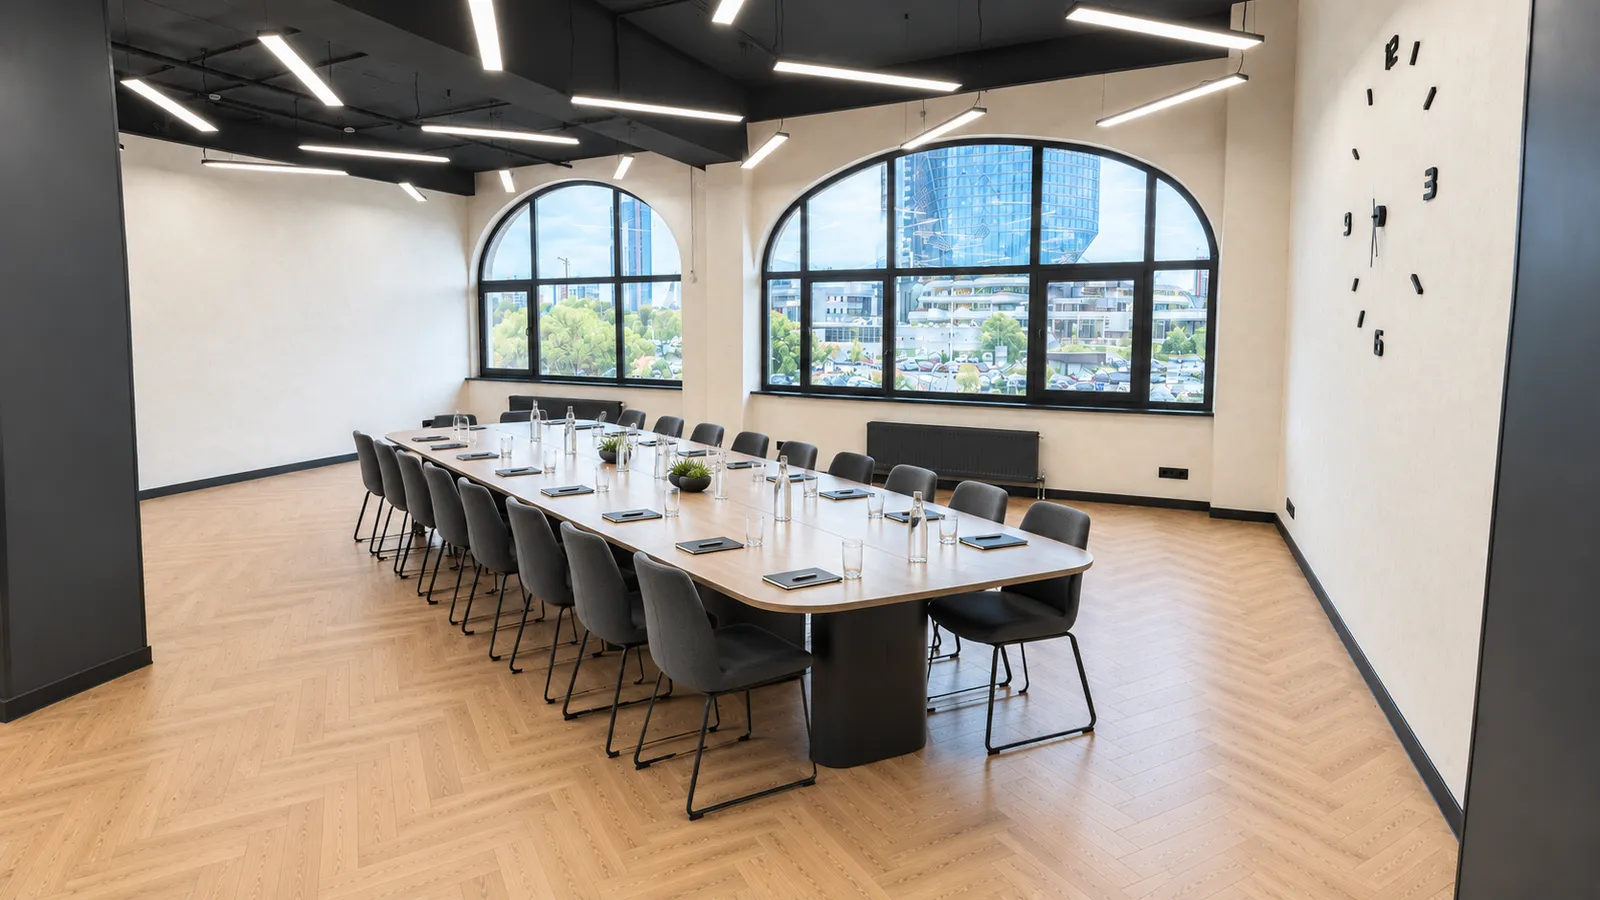
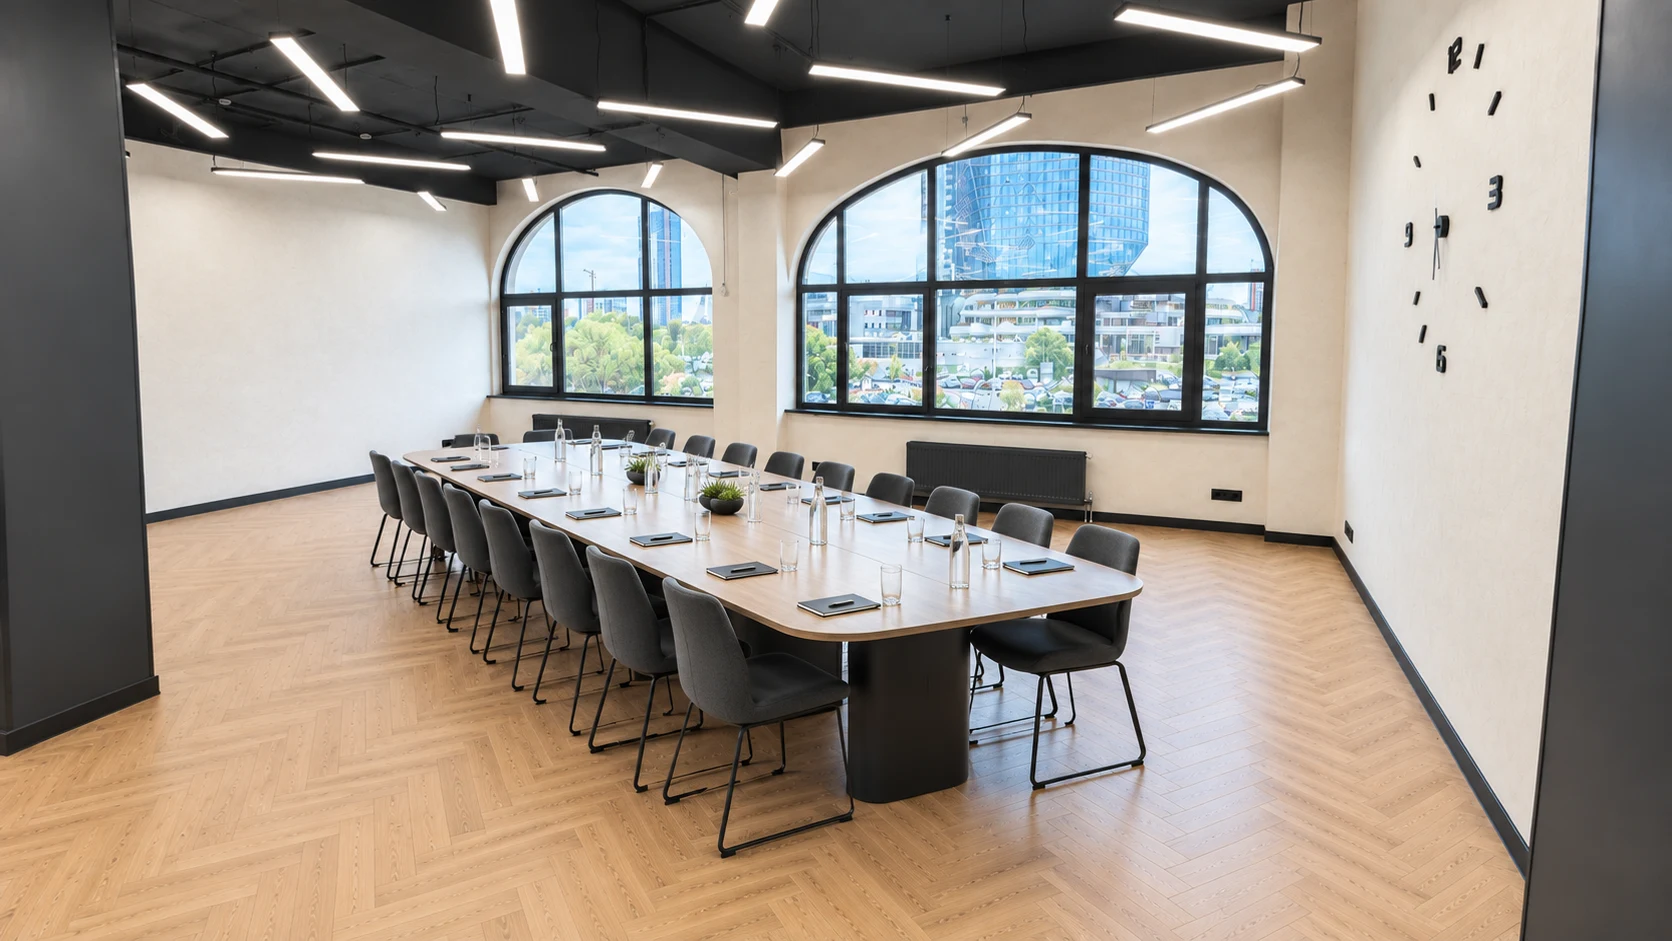
Тарифы: «1/2 дня», подсветка выбранной карточки; помещение: без 3D-наклона и полосы по краю, фото в родном качестве

diff --git a/src/sections.js b/src/sections.js
@@ -37,7 +37,7 @@ export function initHeader() {
   });
 }
 
-// Помещение: переключатель рассадки + объёмный наклон сцены за курсором и параллакс при прокрутке.
+// Помещение: переключатель рассадки, параллакс за курсором и появление при прокрутке.
 export function initSpace() {
   const root = document.querySelector('.space');
   const buttons = root.querySelectorAll('.layouts button');
@@ -49,31 +49,29 @@ export function initSpace() {
     }),
   );
 
+  // Лёгкий параллакс: картинка чуть увеличена и смещается за курсором внутри рамки,
+  // запаса по краям (scale 1.08) хватает, чтобы края не открывались.
   const stage = root.querySelector('.stage-inner');
   const imgs = stage.querySelectorAll('img');
+  gsap.set(imgs, { scale: 1.08 });
   if (matchMedia('(hover: hover)').matches) {
-    const rx = gsap.quickTo(stage, 'rotationX', { duration: 0.8, ease: 'power3.out' });
-    const ry = gsap.quickTo(stage, 'rotationY', { duration: 0.8, ease: 'power3.out' });
     const ix = gsap.quickTo(imgs, 'x', { duration: 0.8, ease: 'power3.out' });
     const iy = gsap.quickTo(imgs, 'y', { duration: 0.8, ease: 'power3.out' });
     stage.addEventListener('mousemove', (e) => {
       const r = stage.getBoundingClientRect();
-      const px = (e.clientX - r.left) / r.width - 0.5;
-      const py = (e.clientY - r.top) / r.height - 0.5;
-      ry(px * 8);
-      rx(-py * 6);
-      ix(-px * 24);
-      iy(-py * 16);
+      ix(-((e.clientX - r.left) / r.width - 0.5) * r.width * 0.05);
+      iy(-((e.clientY - r.top) / r.height - 0.5) * r.height * 0.05);
     });
     stage.addEventListener('mouseleave', () => {
-      rx(0); ry(0); ix(0); iy(0);
+      ix(0);
+      iy(0);
     });
   }
-  gsap.fromTo(stage, { rotationX: 14, scale: 0.92 }, {
-    rotationX: 0,
+  gsap.fromTo(stage, { scale: 0.92, opacity: 0.6 }, {
     scale: 1,
+    opacity: 1,
     ease: 'none',
-    scrollTrigger: { trigger: root.querySelector('.stage'), start: 'top bottom', end: 'top 30%', scrub: true },
+    scrollTrigger: { trigger: root.querySelector('.stage'), start: 'top bottom', end: 'top 40%', scrub: true },
   });
 }
 
@@ -106,4 +104,17 @@ export function initGallery() {
     ease: 'power3.out',
     scrollTrigger: { trigger: grid, start: 'top 85%', once: true },
   });
+}
+
+// Тарифы: выбранная карточка подсвечивается тёмно-синим. На компьютере подсветка следует за курсором
+// и возвращается к выбранной, когда курсор уходит; клик (или тап на телефоне) закрепляет выбор.
+export function initTariffs() {
+  const cards = [...document.querySelectorAll('.tariff')];
+  let selected = cards.find((c) => c.classList.contains('is-active'));
+  const activate = (card) => cards.forEach((c) => c.classList.toggle('is-active', c === card));
+  cards.forEach((card) => {
+    card.addEventListener('click', () => activate((selected = card)));
+    if (matchMedia('(hover: hover)').matches) card.addEventListener('mouseenter', () => activate(card));
+  });
+  document.querySelector('.tariff-grid').addEventListener('mouseleave', () => activate(selected));
 }

diff --git a/src/style.css b/src/style.css
@@ -146,13 +146,13 @@ img { display: block; max-width: 100%; }
 }
 .layouts button:hover { border-color: var(--navy); }
 .layouts button.is-active { background: var(--navy); color: #fff; border-color: var(--navy); }
-.stage { position: relative; perspective: 1400px; }
+.stage { position: relative; }
 .stage-inner {
   position: relative; aspect-ratio: 16 / 9; border-radius: 20px; overflow: hidden;
-  transform-style: preserve-3d; will-change: transform; box-shadow: 0 30px 80px -30px rgba(20, 30, 40, 0.45);
+  background: var(--navy); box-shadow: 0 30px 80px -30px rgba(20, 30, 40, 0.45);
 }
 .stage-inner img {
-  position: absolute; inset: -4%; width: 108%; height: 108%; object-fit: cover;
+  position: absolute; inset: 0; width: 100%; height: 100%; object-fit: cover;
   opacity: 0; transition: opacity 0.6s ease;
 }
 .stage-inner img.is-active { opacity: 1; }
@@ -175,15 +175,18 @@ img { display: block; max-width: 100%; }
 .tariff {
   position: relative; display: flex; flex-direction: column; gap: 18px;
   padding: 36px 28px 28px; border: 1px solid rgba(34, 50, 63, 0.15); border-radius: 160px 160px 16px 16px;
-  text-align: center;
+  text-align: center; cursor: pointer;
+  transition: background 0.35s, border-color 0.35s, transform 0.35s;
 }
+.tariff h3, .tariff .price, .tariff ul, .tariff .price small { transition: color 0.35s; }
 .tariff h3 { margin-top: 24px; font: 700 22px/1 var(--font-head); color: var(--navy); }
 .tariff .price { font: 800 48px/1 var(--font-head); color: var(--navy); }
 .tariff .price small { display: block; margin-top: 6px; font: 500 14px/1 var(--font-body); color: var(--muted); }
 .tariff ul { list-style: none; color: var(--muted); font-size: 15px; display: grid; gap: 8px; flex: 1; }
-.tariff-hit { background: var(--navy); border-color: var(--navy); }
-.tariff-hit h3, .tariff-hit .price { color: #fff; }
-.tariff-hit ul, .tariff-hit .price small { color: rgba(255, 255, 255, 0.75); }
+.tariff.is-active { background: var(--navy); border-color: var(--navy); transform: translateY(-6px); }
+.tariff.is-active h3, .tariff.is-active .price { color: #fff; }
+.tariff.is-active ul, .tariff.is-active .price small { color: rgba(255, 255, 255, 0.75); }
+.tariff.is-active .btn-ghost { background: var(--sun); border-color: var(--sun); color: var(--navy); }
 .badge {
   position: absolute; top: 20px; left: 50%; transform: translateX(-50%);
   padding: 6px 12px; border-radius: 999px; background: var(--sun); color: var(--navy);

diff --git a/index.html b/index.html
@@ -118,17 +118,17 @@
           <ul><li>Минимум 2 часа</li><li>Мебель и Wi-Fi</li><li>Расстановка под формат</li></ul>
           <a href="#contacts" class="btn btn-ghost">Забронировать</a>
         </article>
-        <article class="tariff tariff-hit" data-reveal>
+        <article class="tariff is-active" data-reveal>
           <span class="badge">Популярный</span>
-          <h3>Полдня</h3>
+          <h3>1/2 дня</h3>
           <div class="price">300 <small>BYN · 5 часов</small></div>
           <ul><li>Проектор и экран включены</li><li>Флипчарт включён</li><li>Вода для гостей</li><li>Помощь администратора</li></ul>
-          <a href="#contacts" class="btn">Забронировать</a>
+          <a href="#contacts" class="btn btn-ghost">Забронировать</a>
         </article>
         <article class="tariff" data-reveal>
           <h3>День</h3>
           <div class="price">520 <small>BYN · 10 часов</small></div>
-          <ul><li>Всё из тарифа «Полдня»</li><li>Звук и микрофоны</li><li>Уборка между сессиями</li><li>Скидка 10% на кофе-брейк</li></ul>
+          <ul><li>Всё из тарифа «1/2 дня»</li><li>Звук и микрофоны</li><li>Уборка между сессиями</li><li>Скидка 10% на кофе-брейк</li></ul>
           <a href="#contacts" class="btn btn-ghost">Забронировать</a>
         </article>
       </div>

diff --git a/src/main.js b/src/main.js
@@ -4,7 +4,7 @@ import Lenis from 'lenis';
 import './style.css';
 import { markSVG } from './logo.js';
 import { runLoader } from './loader.js';
-import { initReveals, initHeader, initSpace, initGallery } from './sections.js';
+import { initReveals, initHeader, initSpace, initGallery, initTariffs } from './sections.js';
 import { initTour } from './tour.js';
 
 // Логотип в шапке: при наведении арка заново прорисовывается,
@@ -35,6 +35,7 @@ initLogoHover(document.querySelector('.logo'));
 initHeader();
 initSpace();
 initGallery();
+initTariffs();
 const startTour = initTour();
 
 const lenis = new Lenis({ autoRaf: true });
